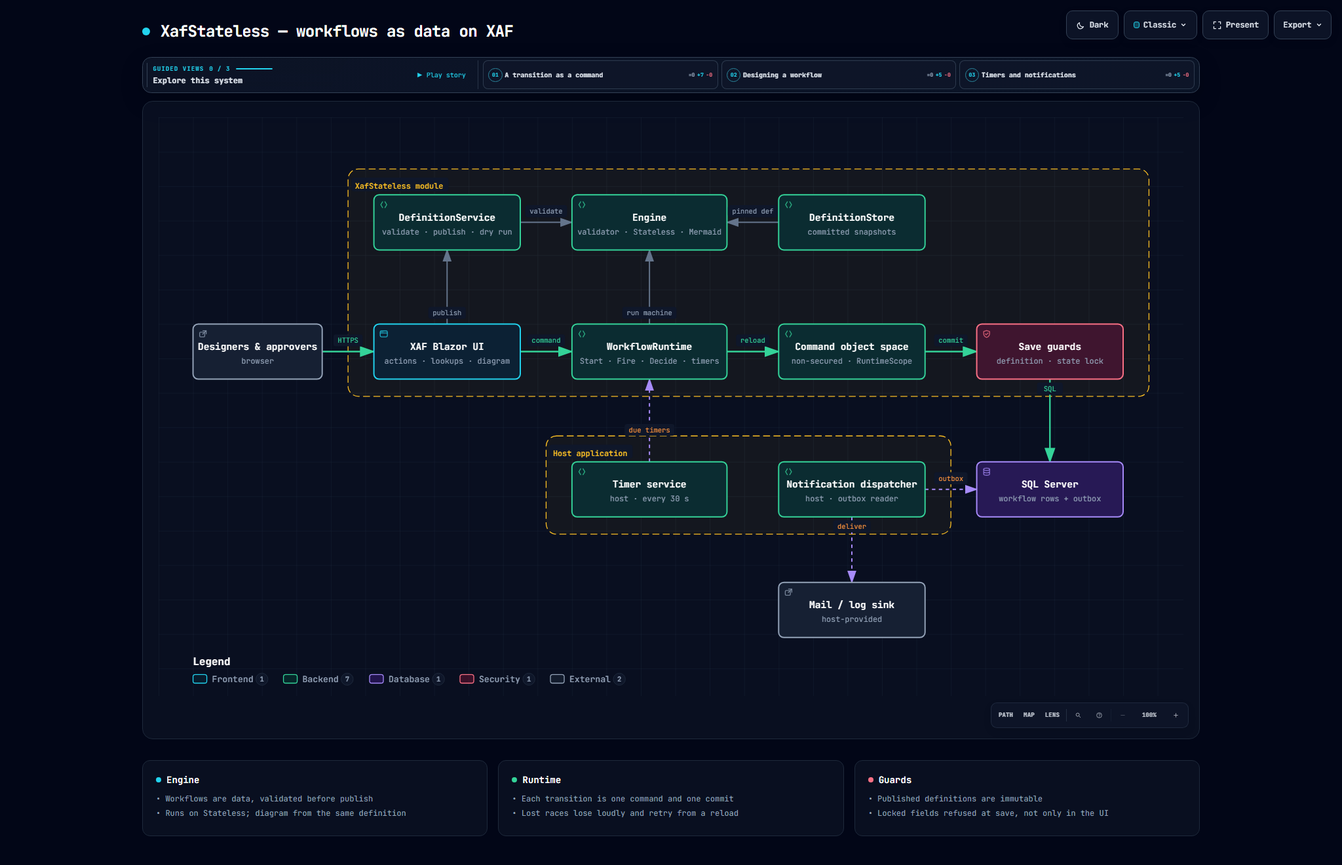
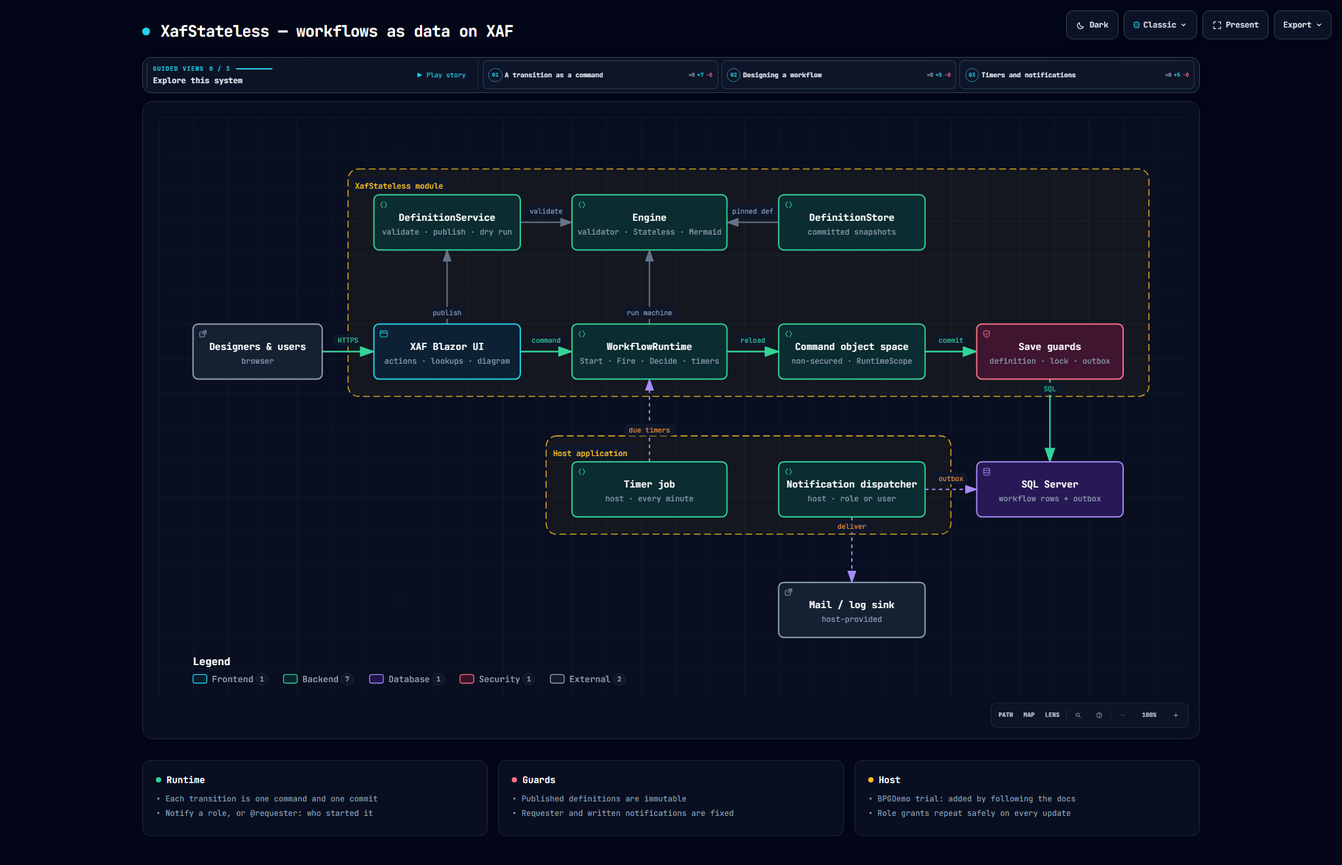
Docs: architecture diagram, trial findings and handoff brought up to date
The archify diagram and the README screenshots show the host's timer job,
role-or-user notification delivery and the requester/notification guards;
it passes showcase validation and fits 1440x900 to 2048x1320 in both
themes. host-trial.md records how each finding closed (XSM-014, 018, 019,
020, 021). The README explains running the E2E test on its own catalog so
the demo database is kept. The handoff lists the follow-up commits.

diff --git a/docs/architecture/xafstateless-architecture.html b/docs/architecture/xafstateless-architecture.html
@@ -4959,7 +4959,7 @@
       </div>
     </div>
 
-    <script id="archify-guided-views-data" type="application/json">[{"id":"transition-command","label":"A transition as a command","focus":["users","ui","runtime","engine","cmdos","guards","db"],"note":"Commit the view, reload by id, run the machine, touch rows, one commit through the save guards."},{"id":"definitions","label":"Designing a workflow","focus":["ui","defsvc","engine","store","db"],"note":"Drafts are validated by the engine and published as immutable, versioned definitions."},{"id":"background","label":"Timers and notifications","focus":["timer","runtime","dispatcher","db","mail"],"note":"The host fires due Wait states and delivers the outbox."}]</script>
+    <script id="archify-guided-views-data" type="application/json">[{"id":"transition-command","label":"A transition as a command","focus":["users","ui","runtime","engine","cmdos","guards","db"],"note":"Commit the view, reload by id, run the machine, touch rows, one commit through the save guards."},{"id":"definitions","label":"Designing a workflow","focus":["ui","defsvc","engine","store","db"],"note":"Drafts are numbered per name, validated by the engine and published as immutable versions."},{"id":"background","label":"Timers and notifications","focus":["timer","runtime","dispatcher","db","mail"],"note":"The host fires due Wait states and delivers the outbox, to a role or to the requester."}]</script>
 
     <script id="archify-i18n-data" type="application/json">{"locale":"en","messages":{"viewer.kind.frontend":"Frontend","viewer.kind.backend":"Backend","viewer.kind.database":"Database","viewer.kind.cloud":"Cloud","viewer.kind.security":"Security","viewer.kind.messagebus":"Message bus","viewer.kind.external":"External","viewer.kind.neutral":"Neutral","viewer.kind.node":"Node","viewer.kind.start":"Start","viewer.kind.active":"Active","viewer.kind.waiting":"Waiting","viewer.kind.decision":"Decision","viewer.kind.success":"Success","viewer.kind.failure":"Failure","viewer.toolbar.actions":"Diagram actions","viewer.theme.toggle.title":"Toggle theme (T)","viewer.theme.toggle":"Toggle color theme","viewer.theme.dark":"Dark","viewer.theme.light":"Light","viewer.preset.choose.title":"Choose visual style (S cycles)","viewer.preset.choose":"Choose visual style","viewer.preset.style":"Style","viewer.preset.menu":"Visual style","viewer.preset.identity":"Visual identity","viewer.preset.cycles":"S cycles","viewer.preset.classic":"Classic","viewer.preset.classic.short":"Classic","viewer.preset.classic.hint":"Stable technical default","viewer.preset.flow":"Signal Flow","viewer.preset.flow.short":"Flow","viewer.preset.flow.hint":"Motion-forward presentation","viewer.preset.blueprint":"Blueprint","viewer.preset.blueprint.hint":"Engineering review","viewer.preset.editorial":"Editorial","viewer.preset.editorial.hint":"Publication and launch notes","viewer.preset.badge.signalFlow":"SIGNAL FLOW","viewer.preset.badge.blueprint":"BLUEPRINT / REV 01","viewer.preset.badge.editorial":"EDITORIAL / FIELD NOTE","viewer.preset.badge.editorialPlate":"ARCHIFY / PLATE 04","viewer.preset.current":"Visual style: {style}. Choose visual style","viewer.motion.live":"Live","viewer.motion.still":"Still","viewer.motion.pause":"Pause motion","viewer.motion.resume":"Resume motion","viewer.motion.reduced":"Motion paused by reduced-motion preference","viewer.motion.hidden":"Motion paused while this page is hidden","viewer.motion.yielding":"Pause motion; currently yielding to {owner}","viewer.motion.yielding.title":"Live preview enabled · yielding to {owner}","viewer.owner.story":"the guided story","viewer.owner.chapter":"the active chapter","viewer.owner.chapterPreview":"the chapter delta preview","viewer.owner.handoff":"the chapter handoff","viewer.owner.route":"Route Probe","viewer.owner.lens":"Semantic Lens","viewer.owner.relationship":"Relationship Preview","viewer.owner.intent":"Intent Trace","viewer.owner.focus":"semantic focus","viewer.owner.legend":"legend preview","viewer.owner.reader":"reader interaction","viewer.present.enter":"Enter presentation stage","viewer.present.enter.title":"Presentation stage (F)","viewer.present.exit":"Exit presentation stage","viewer.present.exit.title":"Exit presentation stage (F or Escape)","viewer.present.present":"Present","viewer.present.exit.label":"Exit","viewer.export.button":"Export","viewer.export.button.title":"Export diagram (E)","viewer.export.diagram":"Export diagram","viewer.export.menu":"Export","viewer.export.subtitle":"Portable, clean outputs","viewer.export.share":"Share","viewer.export.shareCard":"Share Card","viewer.export.routeShareCard":"Route Share Card","viewer.export.reachShareCard":"Reach Share Card","viewer.export.copyShareCard":"Copy Share Card","viewer.export.copyDiagram":"Copy diagram","viewer.export.clipboardPng":"PNG to clipboard","viewer.export.raster":"Raster images","viewer.export.image":"Image","viewer.export.lossless":"Lossless image","viewer.export.compact":"Compact image","viewer.export.modern":"Modern image","viewer.export.vectorMotion":"Vector and motion","viewer.export.vectorMotion.heading":"Vector \u0026 motion","viewer.export.editable":"Editable vector","viewer.export.motion6s":"6s motion","viewer.export.unsupported":"Not supported by this browser","viewer.export.clipboardUnsupported":"Clipboard image write not supported by this browser","viewer.export.clipboardUnsupported.period":"Clipboard image write not supported by this browser.","viewer.export.clipboardUnsupported.short":"Clipboard image write not supported in this browser.","viewer.export.motionUnavailable":"Motion capture unavailable in this browser","viewer.export.webmUnavailable":"WebM unavailable in this browser","viewer.export.failed":"Export failed: {message}","viewer.export.unknownVariant":"Unknown Share Card variant: {variant}","viewer.export.routeRequired":"Trace a route before exporting a Route Share Card","viewer.export.reachRequired":"Trace authored reach before exporting a Reach Share Card","viewer.export.unknown":"unknown","viewer.export.routeFailed":"Route Share Card export failed: {message}","viewer.export.reachFailed":"Reach Share Card export failed: {message}","viewer.export.copyFailed":"Copy failed: {message}","viewer.export.copiedPng":"Copied PNG to clipboard","viewer.export.copiedShare":"Copied Share Card","viewer.export.downloadedShare":"Downloaded Share Card","viewer.export.downloadedRoute":"Downloaded Route Share Card","viewer.export.downloadedReach":"Downloaded Reach Share Card","viewer.export.downloadedWebm":"Downloaded WebM","viewer.export.recording":"Recording 6 seconds of motion…","viewer.export.card.routeSummary.one":"Route: {source} → {target} · {count} directed hop","viewer.export.card.routeSummary.other":"Route: {source} → {target} · {count} directed hops","viewer.export.card.reachSummary":"Authored {direction} from {origin} · {nodes} · {links} · max {hops}","viewer.export.card.node.one":"{count} node","viewer.export.card.node.other":"{count} nodes","viewer.export.card.link.one":"{count} link","viewer.export.card.link.other":"{count} links","viewer.export.card.hop.one":"{count} hop","viewer.export.card.hop.other":"{count} hops","viewer.export.card.routeBadge":"ARCHIFY · ROUTE · {hops}","viewer.export.card.reachBadge":"ARCHIFY · {direction} REACH","viewer.export.card.defaultBadge":"ARCHIFY · {preset} · {theme}","viewer.export.direction.upstream":"Upstream","viewer.export.direction.downstream":"Downstream","viewer.export.error.canvasUnavailable":"Canvas unavailable for {label}","viewer.export.error.contextUnavailable":"2D canvas context unavailable for {label}","viewer.export.error.toBlobUnavailable":"canvas.toBlob unavailable for {label}","viewer.export.error.toBlobNull":"canvas.toBlob returned no data for {label}","viewer.export.error.variantsCombined":"Share Card variants cannot be combined","viewer.export.error.viewerState":"Share Card export could not remove temporary viewer state","viewer.export.error.routeState":"Route Card export could not preserve the resolved route safely","viewer.export.error.reachState":"Reach Card export could not preserve authored reach safely","viewer.export.error.webmRequirements":"WebM motion export requires a trace animation and browser MediaRecorder support","viewer.export.error.mediaRecorder":"MediaRecorder failed","viewer.export.error.emptyWebm":"MediaRecorder produced an empty WebM","viewer.export.error.webmBackground":"SVG background could not be loaded for WebM export","viewer.guided.region":"Guided diagram views","viewer.guided.previous":"Previous guided view","viewer.guided.previous.title":"Previous guided view ([)","viewer.guided.next":"Next guided view","viewer.guided.next.title":"Next guided view (])","viewer.guided.views":"Guided views","viewer.guided.explore":"Explore this system","viewer.guided.intro":"Step through curated paths without changing the source diagram.","viewer.guided.trail":"Story trail","viewer.guided.beat":"Beat","viewer.guided.nextBeat":"Next","viewer.guided.play":"Play guided story","viewer.guided.play.title":"Play guided story (P)","viewer.guided.pause":"Pause guided story","viewer.guided.pause.title":"Pause guided story (P)","viewer.guided.replay":"Replay guided story","viewer.guided.replay.title":"Replay guided story (P)","viewer.guided.playStory":"Play story","viewer.guided.pauseStory":"Pause","viewer.guided.replayStory":"Replay story","viewer.guided.motionUnavailable":"Story playback unavailable while motion is Still","viewer.guided.enableMotion":"Switch motion to Live to play the guided story","viewer.guided.selectBeatLink":"Select a Story Beat to copy its exact link","viewer.guided.copyMoment":"Copy moment","viewer.guided.momentCopied":"Moment link copied","viewer.guided.momentCopyFailed":"Could not copy story moment link","viewer.guided.copied":"Copied","viewer.guided.copyFailed":"Copy failed","viewer.guided.showAll":"Show all","viewer.guided.showAll.aria":"Show entire diagram","viewer.guided.chapters":"Story chapters","viewer.guided.storyTrail":"Story trail for {label}: {count} beats","viewer.guided.chapter.open":"Open chapter {index} of {total}: {label}, {count} stops","viewer.guided.chapter.current":"Current chapter {index} of {total}: {label}, {count} stops","viewer.guided.chapter.selectedNodes":"{count} selected nodes","viewer.guided.chapter.stops":"{count} stops","viewer.guided.chapter.stop.one":"{count} stop","viewer.guided.chapter.stop.other":"{count} stops","viewer.guided.chapter.current.title":"{label} — current chapter, {count} stops","viewer.guided.chapter.delta.expanded":"{stay} stay, {enter} enter, {leave} leave","viewer.guided.chapter.delta.aria":"Open chapter {index} of {total}: {label}. Chapter focus delta: {delta}","viewer.guided.chapter.delta.title":"{label} — {delta} chapter focus","viewer.guided.handoff":"{from} → {to} · via {label}","viewer.guided.share.chapter":"Chapter {index} / {total}","viewer.guided.share.initial":"Chapter 01 / 01","viewer.guided.share.default":"Guided chapter","viewer.guided.state.ready":"Ready","viewer.guided.state.playing":"Playing","viewer.guided.state.settled":"Settled","viewer.guided.state.paused":"Paused","viewer.guided.state.pinned":"Pinned","viewer.guided.state.still":"Still","viewer.guided.share.step":"Step {index} / {total} · {label}","viewer.guided.share.staticMoment":"{step} · Static moment","viewer.guided.share.complete":"{count} steps complete · {note}","viewer.guided.share.settled":"Path settled for reading.","viewer.guided.share.staticPath":"{count} steps · Static path","viewer.guided.share.ready":"{count} steps · Ready","viewer.guided.share.aria":"{state} chapter {index} of {total}: {label}. {beat}. {route}","viewer.guided.beat.start":"Beat {index} / {total} · {label} · starting point","viewer.guided.beat.forward":"Beat {index} / {total} · {from} → {to}","viewer.guided.beat.reverse":"Beat {index} / {total} · {from} → {to} · reverse authored link","viewer.guided.beat.multiple":"Beat {index} / {total} · {from} ⇄ {to} · {count} authored links","viewer.guided.beat.group":"Beat {index} / {total} · {from} · {to} · grouped · no direct link","viewer.guided.beat.aria.prefix":"Story beat {index} of {total}: {label}. ","viewer.guided.beat.aria.start":"Starting point.","viewer.guided.beat.aria.forward":"From {from} through one authored forward relationship.","viewer.guided.beat.aria.reverse":"From {from}; the authored relationship points from {to} to {from}.","viewer.guided.beat.aria.multiple":"From {from} through {count} authored relationships; shown without arbitrary motion.","viewer.guided.beat.aria.group":"Grouped from {from} with no direct authored relationship.","viewer.guided.caption.start":"Starting point","viewer.guided.caption.grouped":"Grouped transition · no direct authored link","viewer.guided.caption.more":" +{count} more","viewer.guided.caption.reverse":"Reverse authored relationship","viewer.guided.caption.relationships":"{count} authored relationships","viewer.guided.caption.relationship":"Authored relationship","viewer.guided.caption.direction":"authored direction: {from} → {to}","viewer.guided.caption.starting":"Authored starting point","viewer.guided.beatLink":"Copy link to current story moment: Beat {index} of {total}: {label}","viewer.guided.noStory":"This diagram has no authored guided story.","viewer.guide.eyebrow":"Diagram guide","viewer.guide.close":"Close diagram guide","viewer.guide.inspecting":"Inspecting compiled semantics","viewer.guide.actions":"Diagram exploration actions","viewer.guide.find":"Find any node","viewer.guide.find.hint":"Search labels, responsibilities, kinds, and stable IDs.","viewer.guide.route":"Trace a route","viewer.guide.route.aria":"Trace a directed route","viewer.guide.route.hint":"Ask how two semantic nodes connect in authored direction.","viewer.guide.map":"See the whole system","viewer.guide.map.hint":"Open Semantic Radar with a live viewport and stable nodes.","viewer.guide.lens":"Compare semantic kinds","viewer.guide.lens.hint":"Count roles, reveal their traffic, and compare direct authored links.","viewer.guide.story":"Play the guided story","viewer.guide.story.hint":"Walk the authored chapters and real relationships.","viewer.guide.present":"Enter Presentation Stage","viewer.guide.present.hint":"Give the live diagram the viewport without changing export.","viewer.guide.shortcuts":"Additional keyboard shortcuts","viewer.guide.shortcut.export":"Export","viewer.guide.shortcut.theme":"Theme","viewer.guide.shortcut.style":"Style","viewer.guide.shortcut.reset":"Reset","viewer.guide.shortcut.zoomIn":"Zoom in","viewer.guide.shortcut.zoomOut":"Zoom out","viewer.guide.shortcut.close":"Close","viewer.guide.facts":"{nodes} · {relationships} · {views}","viewer.guide.fact.node.one":"{count} semantic node","viewer.guide.fact.node.other":"{count} semantic nodes","viewer.guide.fact.relationship.one":"{count} relationship","viewer.guide.fact.relationship.other":"{count} relationships","viewer.guide.fact.view.one":"{count} guided view","viewer.guide.fact.view.other":"{count} guided views","viewer.guide.story.available.one":"Walk {count} authored chapter and its real relationships.","viewer.guide.story.available.other":"Walk {count} authored chapters and their real relationships.","viewer.guide.story.unavailable":"No authored guided story in this diagram.","viewer.guide.open":"Open diagram guide","viewer.guide.noStory":"This diagram has no authored guided story.","viewer.finder.title":"Find a node","viewer.finder.close":"Close node finder","viewer.finder.placeholder":"Search labels or IDs","viewer.finder.search":"Search diagram nodes","viewer.finder.results":"Diagram nodes","viewer.finder.empty":"No matching nodes","viewer.finder.result.focus":"Focus {label}","viewer.finder.result.routeStart":"Choose {label} as route start","viewer.finder.result.routeTarget":"Choose {label} as route destination, {links}","viewer.finder.status.empty":"No matching nodes","viewer.finder.status.count.one":"{count} matching node","viewer.finder.status.count.other":"{count} matching nodes","viewer.finder.noun.nodes":"nodes","viewer.finder.link.one":"{count} link","viewer.finder.link.other":"{count} links","viewer.finder.result.focus.one":"Focus {label}, {count} related connection","viewer.finder.result.focus.other":"Focus {label}, {count} related connections","viewer.finder.status.filtered":"{visible} of {available} {noun}","viewer.finder.status.all":"{available} {noun}","viewer.passport.eyebrow":"Semantic passport","viewer.passport.metadata":"Node metadata","viewer.passport.evidence":"Verified source evidence","viewer.passport.verified":"Verified source","viewer.passport.reach":"Authored reach","viewer.passport.reach.trace":"Trace authored reachability","viewer.passport.upstream":"Upstream","viewer.passport.downstream":"Downstream","viewer.passport.upstream.trace":"Trace upstream authored reachability","viewer.passport.downstream.trace":"Trace downstream authored reachability","viewer.passport.close":"Close semantic passport","viewer.passport.copy":"Copy link","viewer.passport.copy.focus":"Copy link to focused node","viewer.passport.relations":"Relations","viewer.passport.relations.show":"Show connected relationships","viewer.passport.relations.hide":"Hide connected relationships","viewer.passport.relations.list":"Connected relationships","viewer.passport.copyRelation":"Copy relation","viewer.passport.copyNode":"Copy node","viewer.passport.copyPinned":"Copy link to pinned relationship","viewer.passport.copySource":"Copy link to source node","viewer.passport.copy.focused.success":"Focused node link copied","viewer.passport.copy.pinned.success":"Pinned relationship link copied","viewer.passport.copy.focused.failed":"Could not copy focused node link","viewer.passport.copy.pinned.failed":"Could not copy pinned relationship link","viewer.passport.relationship.none":"No connected relationships","viewer.passport.relationship.count.one":"{count} relation","viewer.passport.relationship.count.other":"{count} relations","viewer.passport.relationship.show.one":"Show {count} connected relationship","viewer.passport.relationship.show.other":"Show {count} connected relationships","viewer.passport.relationship.summary":"{out} outgoing · {in} incoming{loops}","viewer.passport.relationship.loops":" · {count} loop","viewer.passport.relationship.explorer":"Direct relationship explorer","viewer.passport.relationship.help":"Use arrow keys to explore relationships. Press Enter or Space to pin details; Escape clears.","viewer.passport.relationship.loopsBack":"loops back","viewer.passport.relationship.connectsTo":"connects to","viewer.passport.relationship.connectsFrom":"connects from","viewer.passport.relationship.pinned":"Pinned relationship · {from} → {to} · {label}","viewer.passport.relationship.inspect":"Inspect relationship {index} of {total}: {from} to {to}, {label}. Press Enter for details.","viewer.passport.relationship.group.out":"Outgoing","viewer.passport.relationship.group.in":"Incoming","viewer.passport.relationship.group.loop":"Self loops","viewer.passport.relationship.row":"{group}: {relationship}, {neighbor}","viewer.passport.relationship.direction.out":"OUT →","viewer.passport.relationship.direction.in":"← IN","viewer.passport.relationship.direction.loop":"LOOP","viewer.passport.sourceCount.one":"{count} verified source reference","viewer.passport.sourceCount.other":"{count} verified source references","viewer.passport.sourceMarker":"SRC","viewer.passport.beacon.one":"{count} verified source; focus this node to inspect","viewer.passport.beacon.other":"{count} verified sources; focus this node to inspect","viewer.passport.repository.open":"Open verified repository revision {revision}","viewer.passport.source.open":"Open verified source {path} at revision {revision}","viewer.passport.source.openLink":"Open ↗","viewer.passport.reach.upstream.one":"Trace {count} upstream authored node","viewer.passport.reach.upstream.other":"Trace {count} upstream authored nodes","viewer.passport.reach.downstream.one":"Trace {count} downstream authored node","viewer.passport.reach.downstream.other":"Trace {count} downstream authored nodes","viewer.passport.reach.noUpstream":"No upstream authored nodes","viewer.passport.reach.noDownstream":"No downstream authored nodes","viewer.passport.reach.status":"{direction} · {nodes} nodes · {links} links · max {hops} hops","viewer.route.eyebrow":"Route probe","viewer.route.start":"Choose a start node","viewer.route.start.find":"Find start","viewer.route.start.find.aria":"Find a route start","viewer.route.copy":"Copy link","viewer.route.copy.aria":"Copy link to traced route","viewer.route.clear":"Clear","viewer.route.clear.aria":"Clear route probe","viewer.route.traced":"Traced route","viewer.route.pickTwo":"Pick two semantic nodes on the diagram","viewer.route.pickOne":"Pick a semantic node on the diagram","viewer.route.controls":"Route journey controls","viewer.route.previous":"Previous route position","viewer.route.play":"Play route journey","viewer.route.pause":"Pause route journey","viewer.route.replay":"Replay route journey","viewer.route.next":"Next route position","viewer.route.journey":"Journey","viewer.route.pause.label":"Pause","viewer.route.replay.label":"Replay","viewer.route.overview":"Overview","viewer.route.overview.aria":"Show complete route overview","viewer.route.instructions":"Choose the source, then the destination. Direction matters.","viewer.route.destination":"Choose a destination from {label}","viewer.route.destination.find":"Find target","viewer.route.destination.find.aria":"Find a reachable route destination","viewer.route.differentDestination":"Choose a different destination","viewer.route.distinct":"A route needs two distinct semantic nodes.","viewer.route.unreachable":"No directed route to {label}","viewer.route.unreachable.detail":"{target} is not reachable from {source}. Pick a highlighted destination.","viewer.route.start.instructions":"Select the source. The next step will reveal only directed destinations.","viewer.route.copy.success":"Traced route link copied","viewer.route.copy.failed":"Could not copy traced route link","viewer.route.position":"Route position {index} of {total}: {label}","viewer.route.step":"Step {index} of {total} · {phase} · {label}","viewer.route.motionRequired":"Automatic journey requires Live motion","viewer.route.trigger.clear":"Clear traced route","viewer.route.overview.status":"{nodes} · {hops} · shortest authored route","viewer.route.overview.node.one":"{count} node","viewer.route.overview.node.other":"{count} nodes","viewer.route.overview.hop.one":"{count} directed hop","viewer.route.overview.hop.other":"{count} directed hops","viewer.route.phase.playing":"Playing","viewer.route.phase.complete":"Complete","viewer.route.phase.inspecting":"Inspecting","viewer.route.destination.count.one":"{count} directed destination available. Pick a highlighted node.","viewer.route.destination.count.other":"{count} directed destinations available. Pick a highlighted node.","viewer.route.noOutgoing":"No outgoing route starts here. Clear and choose another source.","viewer.route.result.title":"{source} to {target}","viewer.route.finder.source.title":"Choose route start","viewer.route.finder.source.placeholder":"Search route sources","viewer.route.finder.source.empty":"No matching route sources","viewer.route.finder.source.results":"Nodes that can start a route","viewer.route.finder.source.noun":"route sources","viewer.route.finder.source.badge":"start","viewer.route.finder.target.title":"Destination from {label}","viewer.route.finder.target.placeholder":"Search reachable destinations","viewer.route.finder.target.empty":"No matching reachable destinations","viewer.route.finder.target.results":"Reachable route destinations","viewer.route.finder.target.noun":"reachable destinations","viewer.route.hop.one":"{count} hop","viewer.route.hop.other":"{count} hops","viewer.lens.eyebrow":"Semantic lens","viewer.lens.title":"Compare system roles","viewer.lens.close":"Close semantic lens","viewer.lens.instruction":"Choose up to two semantic kinds. One reveals its real traffic; two compare only direct authored relationships.","viewer.lens.kinds":"Semantic kinds","viewer.lens.choose":"Choose a kind to inspect its nodes and touching relationships.","viewer.lens.copy":"Copy link to semantic lens","viewer.lens.clear":"Clear semantic lens","viewer.lens.open":"Open semantic lens","viewer.lens.openActive":"Open active semantic lens","viewer.lens.legend":"Semantic legend","viewer.lens.legend.inspect.one":"Inspect {label}, {count} node","viewer.lens.legend.inspect.other":"Inspect {label}, {count} nodes","viewer.lens.kind.count.one":"{label}, {count} node","viewer.lens.kind.count.other":"{label}, {count} nodes","viewer.lens.compare.one":"{first} → {second}: {forward} · {second} → {first}: {reverse} · {count} direct relationship","viewer.lens.compare.other":"{first} → {second}: {forward} · {second} → {first}: {reverse} · {count} direct relationships","viewer.lens.single":"{nodes} · {relationships} · connected peers remain visible","viewer.lens.node.one":"{count} {label} node","viewer.lens.node.other":"{count} {label} nodes","viewer.lens.relationship.one":"{count} touching relationship","viewer.lens.relationship.other":"{count} touching relationships","viewer.radar.title":"Semantic radar","viewer.radar.building":"Building overview","viewer.radar.openFull":"Open full semantic radar","viewer.radar.open":"Open radar","viewer.radar.close":"Close semantic radar","viewer.radar.surface":"Diagram overview. Click a node to focus it, or use arrow keys to pan.","viewer.radar.click":"Click node","viewer.radar.drag":"Drag to pan","viewer.radar.space":"Semantic radar needs more MAP space.","viewer.radar.nodes":"Semantic diagram radar nodes","viewer.radar.focus":"Focus {label} from Semantic Radar","viewer.radar.status":"{count} nodes · {viewport}","viewer.radar.fullMap":"{count} nodes · full map","viewer.radar.compacted":"Radar compacted to avoid covering the Semantic Passport or MAP controls.","viewer.radar.cancelWaiting":"Cancel semantic radar waiting for more MAP space","viewer.radar.needsSpace":"Semantic radar needs more visible MAP space","viewer.radar.viewport.full":"full map","viewer.radar.viewport.width":"{percent}% width","viewer.radar.viewport.scale":"{percent}% viewport","viewer.nav.controls":"Diagram view controls","viewer.nav.route":"Trace a directed route","viewer.nav.route.title":"Trace route (R)","viewer.nav.route.short":"PATH","viewer.nav.radar":"Open semantic radar","viewer.nav.radar.title":"Semantic radar (M)","viewer.nav.radar.short":"MAP","viewer.nav.lens":"Open semantic lens","viewer.nav.lens.title":"Semantic lens (L)","viewer.nav.lens.short":"LENS","viewer.nav.find":"Find a node","viewer.nav.find.title":"Find a node (/)","viewer.nav.guide":"Open diagram guide","viewer.nav.guide.title":"Diagram guide (?)","viewer.nav.zoomOut":"Zoom out","viewer.nav.zoomOut.title":"Zoom out (-)","viewer.nav.reset":"Reset diagram view","viewer.nav.reset.title":"Reset view (0)","viewer.nav.read":"READ","viewer.nav.zoomIn":"Zoom in","viewer.nav.zoomIn.title":"Zoom in (+)","viewer.nav.camera":"{hint}. Reset diagram view","viewer.nav.camera.title":"{semantic}{hint} · reset view (0)","viewer.nav.camera.semantic":"Semantic camera active · ","viewer.nav.level.map":"MAP","viewer.nav.level.read":"READ","viewer.nav.level.full":"FULL","viewer.nav.level.auto":"AUTO","viewer.nav.detail.map":"Zoom in to reveal relationship labels and node context","viewer.nav.detail.read":"Zoom in again to reveal tags and annotations","viewer.nav.detail.full":"Full diagram detail","viewer.intent.summary":"{label}. {out} outgoing, {in} incoming{loops}. {total} connections. Press Enter for details.","viewer.intent.loops":", {count} self loop","viewer.common.copied":"Copied","viewer.common.copyFailed":"Copy failed","viewer.common.copyLink":"Copy link","viewer.common.clear":"Clear","viewer.common.close":"Close"}}</script>
     <div class="guided-views no-print" id="guided-views" hidden aria-label="Guided diagram views">
@@ -5049,15 +5049,15 @@
         <path data-edge-from="dispatcher" data-edge-to="mail" data-edge-label="deliver" data-edge-key="11" data-edge-id="dispatcher-mail" data-composition-points="805,464;805,540" d="M 805 464 L 805 540" class="a-dashed" stroke-width="1.5" marker-end="url(#arrowhead-dashed)"/>
 
         <!-- Components -->
-        <g id="node-users" data-node-id="users" data-node-label="Designers &amp; approvers" tabindex="0" role="button" aria-label="Focus Designers &amp; approvers, browser, Architecture component" aria-pressed="false" data-node-kind="external" data-node-sublabel="browser" data-node-context="Architecture component">
-          <title>Designers &amp; approvers · browser · Architecture component</title>
+        <g id="node-users" data-node-id="users" data-node-label="Designers &amp; users" tabindex="0" role="button" aria-label="Focus Designers &amp; users, browser, Architecture component" aria-pressed="false" data-node-kind="external" data-node-sublabel="browser" data-node-context="Architecture component">
+          <title>Designers &amp; users · browser · Architecture component</title>
           <rect x="40" y="240" width="150" height="64" rx="6" class="c-mask"/>
           <rect x="40" y="240" width="150" height="64" rx="6" class="c-external" stroke-width="1.5"/>
           <g aria-hidden="true" data-semantic-sigil="external" class="semantic-sigil s-external" transform="translate(46 246) scale(0.6875)">
             <rect x="2.5" y="5" width="8.5" height="8" rx="1.5"/>
             <path d="M8 2.5h5.5V8M13.5 2.5 7.5 8.5"/>
           </g>
-          <text data-node-label="" data-detail-anchor="" x="115" y="270" class="t-primary" font-size="11" font-weight="600" text-anchor="middle">Designers &amp; approvers</text>
+          <text data-node-label="" data-detail-anchor="" x="115" y="270" class="t-primary" font-size="11" font-weight="600" text-anchor="middle">Designers &amp; users</text>
         <text data-detail="context" x="115" y="286" class="t-muted" font-size="9" text-anchor="middle">browser</text>
         </g>
 
@@ -5131,8 +5131,8 @@
         <text data-detail="context" x="805" y="286" class="t-muted" font-size="9" text-anchor="middle">non-secured · RuntimeScope</text>
         </g>
 
-        <g id="node-guards" data-node-id="guards" data-node-label="Save guards" tabindex="0" role="button" aria-label="Focus Save guards, definition · state lock, XafStateless module" aria-pressed="false" data-node-kind="security" data-node-sublabel="definition · state lock" data-node-tag="SaveChanges" data-node-context="XafStateless module">
-          <title>Save guards · definition · state lock · XafStateless module · SaveChanges</title>
+        <g id="node-guards" data-node-id="guards" data-node-label="Save guards" tabindex="0" role="button" aria-label="Focus Save guards, definition · lock · outbox, XafStateless module" aria-pressed="false" data-node-kind="security" data-node-sublabel="definition · lock · outbox" data-node-tag="SaveChanges" data-node-context="XafStateless module">
+          <title>Save guards · definition · lock · outbox · XafStateless module · SaveChanges</title>
           <rect x="950" y="240" width="170" height="64" rx="6" class="c-mask"/>
           <rect x="950" y="240" width="170" height="64" rx="6" class="c-security" stroke-width="1.5"/>
           <g aria-hidden="true" data-semantic-sigil="security" class="semantic-sigil s-security" transform="translate(956 246) scale(0.6875)">
@@ -5140,7 +5140,7 @@
             <path d="m5.8 8 1.5 1.5 3-3"/>
           </g>
           <text data-node-label="" data-detail-anchor="" x="1035" y="270" class="t-primary" font-size="11" font-weight="600" text-anchor="middle">Save guards</text>
-        <text data-detail="context" x="1035" y="286" class="t-muted" font-size="9" text-anchor="middle">definition · state lock</text>
+        <text data-detail="context" x="1035" y="286" class="t-muted" font-size="9" text-anchor="middle">definition · lock · outbox</text>
         <text data-detail="fine" x="1035" y="296" class="t-security" font-size="7" text-anchor="middle">SaveChanges</text>
         </g>
 
@@ -5156,26 +5156,26 @@
         <text data-detail="context" x="1035" y="446" class="t-muted" font-size="9" text-anchor="middle">workflow rows + outbox</text>
         </g>
 
-        <g id="node-timer" data-node-id="timer" data-node-label="Timer service" tabindex="0" role="button" aria-label="Focus Timer service, host · every 30 s, Host application" aria-pressed="false" data-node-kind="backend" data-node-sublabel="host · every 30 s" data-node-context="Host application">
-          <title>Timer service · host · every 30 s · Host application</title>
+        <g id="node-timer" data-node-id="timer" data-node-label="Timer job" tabindex="0" role="button" aria-label="Focus Timer job, host · every minute, Host application" aria-pressed="false" data-node-kind="backend" data-node-sublabel="host · every minute" data-node-context="Host application">
+          <title>Timer job · host · every minute · Host application</title>
           <rect x="480" y="400" width="180" height="64" rx="6" class="c-mask"/>
           <rect x="480" y="400" width="180" height="64" rx="6" class="c-backend" stroke-width="1.5"/>
           <g aria-hidden="true" data-semantic-sigil="backend" class="semantic-sigil s-backend" transform="translate(486 406) scale(0.6875)">
             <path d="M6 3 3 8l3 5M10 3l3 5-3 5"/>
           </g>
-          <text data-node-label="" data-detail-anchor="" x="570" y="430" class="t-primary" font-size="11" font-weight="600" text-anchor="middle">Timer service</text>
-        <text data-detail="context" x="570" y="446" class="t-muted" font-size="9" text-anchor="middle">host · every 30 s</text>
+          <text data-node-label="" data-detail-anchor="" x="570" y="430" class="t-primary" font-size="11" font-weight="600" text-anchor="middle">Timer job</text>
+        <text data-detail="context" x="570" y="446" class="t-muted" font-size="9" text-anchor="middle">host · every minute</text>
         </g>
 
-        <g id="node-dispatcher" data-node-id="dispatcher" data-node-label="Notification dispatcher" tabindex="0" role="button" aria-label="Focus Notification dispatcher, host · outbox reader, Host application" aria-pressed="false" data-node-kind="backend" data-node-sublabel="host · outbox reader" data-node-context="Host application">
-          <title>Notification dispatcher · host · outbox reader · Host application</title>
+        <g id="node-dispatcher" data-node-id="dispatcher" data-node-label="Notification dispatcher" tabindex="0" role="button" aria-label="Focus Notification dispatcher, host · role or user, Host application" aria-pressed="false" data-node-kind="backend" data-node-sublabel="host · role or user" data-node-context="Host application">
+          <title>Notification dispatcher · host · role or user · Host application</title>
           <rect x="720" y="400" width="170" height="64" rx="6" class="c-mask"/>
           <rect x="720" y="400" width="170" height="64" rx="6" class="c-backend" stroke-width="1.5"/>
           <g aria-hidden="true" data-semantic-sigil="backend" class="semantic-sigil s-backend" transform="translate(726 406) scale(0.6875)">
             <path d="M6 3 3 8l3 5M10 3l3 5-3 5"/>
           </g>
           <text data-node-label="" data-detail-anchor="" x="805" y="430" class="t-primary" font-size="11" font-weight="600" text-anchor="middle">Notification dispatcher</text>
-        <text data-detail="context" x="805" y="446" class="t-muted" font-size="9" text-anchor="middle">host · outbox reader</text>
+        <text data-detail="context" x="805" y="446" class="t-muted" font-size="9" text-anchor="middle">host · role or user</text>
         </g>
 
         <g id="node-mail" data-node-id="mail" data-node-label="Mail / log sink" tabindex="0" role="button" aria-label="Focus Mail / log sink, host-provided, Architecture component" aria-pressed="false" data-node-kind="external" data-node-sublabel="host-provided" data-node-context="Architecture component">
@@ -5463,23 +5463,12 @@
     <div class="cards">
       <div class="card">
         <div class="card-header">
-          <div class="card-dot cyan"></div>
-          <h3>Engine</h3>
-        </div>
-        <ul>
-          <li>&bull; Workflows are data, validated before publish</li>
-          <li>&bull; Runs on Stateless; diagram from the same definition</li>
-        </ul>
-      </div>
-
-      <div class="card">
-        <div class="card-header">
           <div class="card-dot emerald"></div>
           <h3>Runtime</h3>
         </div>
         <ul>
           <li>&bull; Each transition is one command and one commit</li>
-          <li>&bull; Lost races lose loudly and retry from a reload</li>
+          <li>&bull; Notify a role, or @requester: who started it</li>
         </ul>
       </div>
 
@@ -5490,7 +5479,18 @@
         </div>
         <ul>
           <li>&bull; Published definitions are immutable</li>
-          <li>&bull; Locked fields refused at save, not only in the UI</li>
+          <li>&bull; Requester and written notifications are fixed</li>
+        </ul>
+      </div>
+
+      <div class="card">
+        <div class="card-header">
+          <div class="card-dot amber"></div>
+          <h3>Host</h3>
+        </div>
+        <ul>
+          <li>&bull; BPGDemo trial: added by following the docs</li>
+          <li>&bull; Role grants repeat safely on every update</li>
         </ul>
       </div>
     </div>

diff --git a/docs/host-trial.md b/docs/host-trial.md
@@ -67,8 +67,8 @@ Found by the Codex review of this report, read in code, not tried on a host (bot
 6. §3 did not list `UseDeferredDeletion(this)` as a requirement, although the module's index filters and `DefinitionGuard`
    read `GCRecord`, which only deferred deletion maps. Now required in §3.
 7. §6: `CreateRole` skips the grants when a role with that name already exists, so a host with an existing `Approvers`
-   role, or a second subject added later, silently gets no workflow grants. §6 now says so; an idempotent grant helper is
-   XSM-021.
+   role, or a second subject added later, silently gets no workflow grants. §6 said so; since XSM-021
+   (`b01d81d`) the grants are safe to repeat and §6 grants on every run.
 
 ## What was verified
 
@@ -121,10 +121,10 @@ More screenshots: `images/host-trial/` (definition list, v0 diagram, request Don
 |---|---|---|
 | Workflow Set-field writes bypass the skeleton's automation hooks. A scratch probe on both hook paths saw a UI edit (positive control) and the API PATCHes, but not the runtime's commit that set `Implemented`, although the database had it. The runtime uses `INonSecuredObjectSpaceFactory`; the skeleton announces only `IObjectSpaceFactory` spaces. | Bypass observed; effect on a real generated rule or webhook **unverified** | bpg WF-007 |
 | The generated "Webhook outbox" JobDefinition's Name differs from its command name, so by the recorder's Name lookup its LastRunStatus would never update. The trial showed the mechanism the other way round (Name = command name links). | **Unverified**, read in code only | bpg AUTO-003 |
-| Skeleton users have no e-mail address, so the dispatcher can only log. A real dispatcher needs a user→address source. | Observed | XSM-014 (requester notification) is the place to settle it |
-| A brand-new definition publishes as Version 0; New version makes 1 | Observed, not yet reproduced by a test | XSM-018 |
-| The effect detail view's Kind/Target combos and Order spin have no accessible names (the state view's do) | Observed | XSM-019 |
-| The module's navigation items show XAF's "?" placeholder icon; the effect-kind caption reads "Set field" | Observed, cosmetic | XSM-020 |
+| Skeleton users have no e-mail address, so the dispatcher can only log. A real dispatcher needs a user→address source. | Observed | XSM-014 (`fd4a44d`): Notify can address the requester by user id; resolving a user to an address stays the host's job |
+| A brand-new definition publishes as Version 0; New version makes 1 | Reproduced by a test, fixed | XSM-018 (`b24ad47`) |
+| The effect detail view's Kind/Target combos and Order spin have no accessible names (the state view's do) | Not reproduced in the demo; the E2E journey now checks them by role and name. Likely the BPGDemo layout (XafLayoutBuilder) | XSM-019 (`a26833a`) |
+| The module's navigation items show XAF's "?" placeholder icon; the effect-kind caption reads "Set field" | Images fixed; "Set field" is XAF's standard sentence case for enum values, kept | XSM-020 (`a26833a`) |
 
 ## Putting it in the skeleton for real
 

diff --git a/SESSION_HANDOFF.md b/SESSION_HANDOFF.md
@@ -6,7 +6,7 @@
 
 - Tasks 1–9 of the plan are implemented, task-reviewed and fixed (cards XSM-001…XSM-009, XSM-011, XSM-012).
 - A final whole-branch review ran; its Critical/Important findings were fixed in `5152782` and re-reviewed clean.
-- Tests: `dotnet test XafStateless.slnx` → Engine 37, Module 95, all green. E2E (`tests/XafStateless.E2E`, needs the demo running on a freshly seeded database — see README) passed 1/1.
+- Tests: `dotnet test XafStateless.slnx` → Engine 40, Module 109, all green. E2E (`tests/XafStateless.E2E`, needs the demo running on a freshly seeded database — see README) passed 1/1.
 - Docs: `README.md` (pitch, comparison with XAF StateMachine, screenshots, how to run), `docs/integrating.md` (host contract + limits), architecture diagram `docs/architecture/xafstateless-architecture.html`.
 
 ## BPGDemo trial — done
@@ -17,9 +17,20 @@ The trial integration (plan `docs/superpowers/plans/2026-09-26-bpgdemo-trial.md`
 - The trial's code is kept on the local BPGDemo branch `trial/xafstateless` (commits `d5b1f93`, `e804d3c`, `b63164f`, never
   pushed); BPGDemo itself stays on `master`. The trial worktree and database `bpgdemoTrial` are removed; recreate them with
   `git -C C:\Projects\BPGDemo worktree add C:\Projects\BPGDemo.trial trial/xafstateless` and the plan's Task 1 update step.
-- Follow-up cards: XafStateless XSM-018 (Version 0), XSM-019 (a11y), XSM-020 (icon/caption), XSM-021 (idempotent grants);
-  bpg WF-007 (hook bypass), JOBS-001 (job plumbing), AUTO-003 (outbox Name, unverified), CARD-1825 (tabs, second sighting).
-- Tests: Engine 37, Module 95.
+- Follow-up cards on the bpg board (for a BPG/BPGDemo session): WF-007 (hook bypass), JOBS-001 (job plumbing),
+  AUTO-003 (outbox Name, unverified), CARD-1825 (tabs, second sighting).
+
+## Follow-ups done (2026-09-26, all in Review)
+
+- XSM-018 `b24ad47`: a definition made with New is numbered max+1 per name, read past security, renumbered after a refused save.
+- XSM-021 `b01d81d`: role grants are safe to repeat on every update; the demo and §6 grant on every run.
+- XSM-019/020 `a26833a`: workflow images on the module's classes; the E2E journey checks effect editors by role and name.
+- XSM-014 `fd4a44d`: Notify can address `@requester`, the user who started the workflow; participants see their own
+  notifications. Guards fix the requester and written notifications.
+- Architecture diagram and README screenshots refreshed.
+- E2E runs against a separate catalog so `XafStatelessDemo` stays untouched: pass
+  `--ConnectionStrings:ConnectionString=...Initial Catalog=XafStatelessE2E` to both demo exe calls (seed and run).
+  One E2E run failed at opening the finance task while the machine was busy with a Codex review; reruns passed.
 
 ## BPG decision (2026-09-26)
 

diff --git a/README.md b/README.md
@@ -119,6 +119,10 @@ powershell -File tests\XafStateless.E2E\bin\Debug\net10.0\playwright.ps1 install
 dotnet test tests\XafStateless.E2E
 ```
 
+To keep your own `XafStatelessDemo` data, give the E2E run its own catalog: add
+`"--ConnectionStrings:ConnectionString=Data Source=(localdb)\mssqllocaldb;Integrated Security=SSPI;MultipleActiveResultSets=True;Initial Catalog=XafStatelessE2E"`
+to both demo exe lines (seed and run), and drop `XafStatelessE2E` instead before each run.
+
 The E2E test is not part of the solution, so `dotnet test XafStateless.slnx` runs without the demo. It writes a
 screenshot per step to `tests/XafStateless.E2E/screenshots/` (gitignored). The base URL and user names are in
 `tests/XafStateless.E2E/appsettings.e2e.json`.
